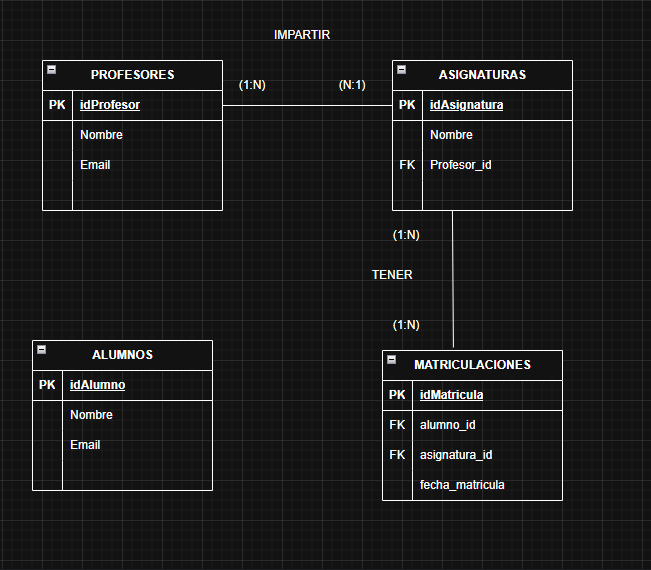
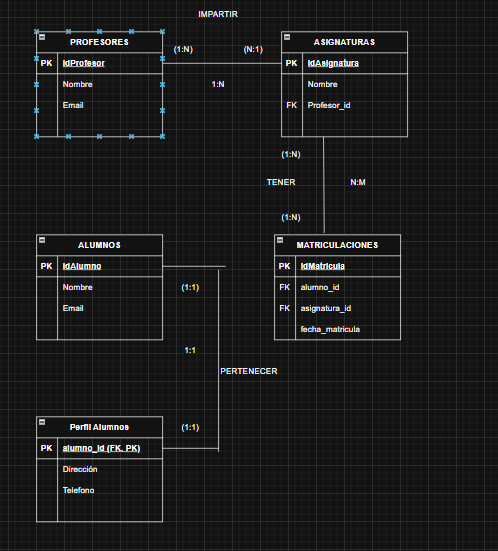
corrigiendo errores

diff --git a/app/Http/Controllers/PerfilAlumnoController.php b/app/Http/Controllers/PerfilAlumnoController.php
@@ -1,0 +1,106 @@
+<?php
+
+namespace App\Http\Controllers;
+
+use App\Models\PerfilAlumno;
+use App\Models\Alumno;
+use Illuminate\Http\Request;
+
+class PerfilAlumnoController extends Controller
+{
+    /**
+     * Mostrar el perfil de un alumno específico.
+     */
+    public function show($id)
+    {
+        $perfil = PerfilAlumno::where('alumno_id', $id)->first();
+
+        if (!$perfil) {
+            return response()->json([
+                'message' => 'Perfil no encontrado para el alumno especificado.'
+            ], 404);
+        }
+
+        return response()->json($perfil, 200);
+    }
+
+    /**
+     * Crear un nuevo perfil para un alumno.
+     */
+    public function store(Request $request, $id)
+    {
+        // Verificar que el alumno existe
+        $alumno = Alumno::find($id);
+        if (!$alumno) {
+            return response()->json([
+                'message' => 'Alumno no encontrado.'
+            ], 404);
+        }
+
+        // Validar los datos de entrada
+        $validated = $request->validate([
+            'direccion' => 'required|string|max:255',
+            'telefono' => 'required|string|max:15',
+        ]);
+
+        // Crear el perfil
+        $perfil = PerfilAlumno::create([
+            'alumno_id' => $id,
+            'direccion' => $validated['direccion'],
+            'telefono' => $validated['telefono'],
+        ]);
+
+        return response()->json([
+            'message' => 'Perfil creado con éxito.',
+            'perfil' => $perfil,
+        ], 201);
+    }
+
+    /**
+     * Actualizar el perfil de un alumno.
+     */
+    public function update(Request $request, $id)
+    {
+        $perfil = PerfilAlumno::where('alumno_id', $id)->first();
+
+        if (!$perfil) {
+            return response()->json([
+                'message' => 'Perfil no encontrado.'
+            ], 404);
+        }
+
+        // Validar los datos de entrada
+        $validated = $request->validate([
+            'direccion' => 'nullable|string|max:255',
+            'telefono' => 'nullable|string|max:15',
+        ]);
+
+        // Actualizar el perfil
+        $perfil->update($validated);
+
+        return response()->json([
+            'message' => 'Perfil actualizado con éxito.',
+            'perfil' => $perfil,
+        ], 200);
+    }
+
+    /**
+     * Eliminar el perfil de un alumno.
+     */
+    public function destroy($id)
+    {
+        $perfil = PerfilAlumno::where('alumno_id', $id)->first();
+
+        if (!$perfil) {
+            return response()->json([
+                'message' => 'Perfil no encontrado.'
+            ], 404);
+        }
+
+        $perfil->delete();
+
+        return response()->json([
+            'message' => 'Perfil eliminado con éxito.'
+        ], 200);
+    }
+}

diff --git a/database/migrations/2025_01_24_184147_create_perfil_alumnos_table.php b/database/migrations/2025_01_24_184147_create_perfil_alumnos_table.php
@@ -1,0 +1,38 @@
+<?php
+
+use Illuminate\Database\Migrations\Migration;
+use Illuminate\Database\Schema\Blueprint;
+use Illuminate\Support\Facades\Schema;
+
+return new class extends Migration
+{
+    /**
+     * Run the migrations.
+     */
+    public function up()
+{
+    Schema::create('perfil_alumnos', function (Blueprint $table) {
+        // Caso 1: Usar alumno_id como PK y FK a la vez
+        // El PK es alumno_id (NO auto-increment)
+        $table->unsignedBigInteger('alumno_id')->primary();
+        
+        // Definimos la relación con la tabla alumnos
+        $table->foreign('alumno_id')
+              ->references('id')     // si tu PK en alumnos es 'id'
+              ->on('alumnos')       // nombre de la tabla
+              ->onDelete('cascade');
+        
+        // Campos extra de perfil
+        $table->string('direccion')->nullable();
+        $table->string('telefono')->nullable();
+        
+        $table->timestamps();
+    });
+}
+
+public function down()
+{
+    Schema::dropIfExists('perfil_alumnos');
+}
+
+};

diff --git a/routes/api.php b/routes/api.php
@@ -13,8 +13,8 @@ use App\Http\Controllers\AsignaturaController;
 | API Routes
 |--------------------------------------------------------------------------
 |
-| Aquí registras las rutas para tu API. Estas rutas se cargarán dentro
-| del "api" middleware group. Puedes probar cada ruta con Postman.
+|
+| 
 |
 */
 
@@ -39,4 +39,8 @@ Route::post('/asignaturas', [AsignaturaController::class, 'store']);
 Route::put('/asignaturas/{id}', [AsignaturaController::class, 'update']);
 Route::delete('/asignaturas/{id}', [AsignaturaController::class, 'destroy']);
 
-
+//Rutas para cada perfil de alumno
+Route::get('/alumnos/{id}/perfil', [PerfilAlumnoController::class, 'show']);
+Route::post('/alumnos/{id}/perfil', [PerfilAlumnoController::class, 'store']);
+Route::put('/alumnos/{id}/perfil', [PerfilAlumnoController::class, 'update']);
+Route::delete('/alumnos/{id}/perfil', [PerfilAlumnoController::class, 'destroy']);

diff --git a/database/seeders/PerfilAlumnoSeeder.php b/database/seeders/PerfilAlumnoSeeder.php
@@ -1,0 +1,28 @@
+<?php
+
+namespace Database\Seeders;
+
+use Illuminate\Database\Seeder;
+use App\Models\PerfilAlumno;
+
+class PerfilAlumnoSeeder extends Seeder
+{
+    /**
+     * Run the database seeds.
+     */
+    public function run(): void
+    {
+        // Ejemplo de datos de prueba
+        PerfilAlumno::create([
+            'alumno_id' => 1, // Asegúrate de que este ID ya exista en la tabla "alumnos"
+            'direccion' => 'Calle Falsa 123',
+            'telefono' => '123456789',
+        ]);
+
+        PerfilAlumno::create([
+            'alumno_id' => 2, // Asegúrate de que este ID ya exista en la tabla "alumnos"
+            'direccion' => 'Avenida Principal 456',
+            'telefono' => '987654321',
+        ]);
+    }
+}

diff --git a/app/Models/PerfilAlumno.php b/app/Models/PerfilAlumno.php
@@ -1,0 +1,28 @@
+<?php
+
+namespace App\Models;
+
+use Illuminate\Database\Eloquent\Factories\HasFactory;
+use Illuminate\Database\Eloquent\Model;
+
+class PerfilAlumno extends Model
+{
+    use HasFactory;
+
+    protected $table = 'perfil_alumnos';
+    public $incrementing = false; // si usas la PK compartida
+
+    protected $primaryKey = 'alumno_id'; // si usas la PK alumno_id
+
+    protected $fillable = [
+        'alumno_id', 
+        'direccion', 
+        'telefono'
+    ];
+
+    // Relación inversa 1..1 con Alumno
+    public function alumno()
+    {
+        return $this->belongsTo(Alumno::class, 'alumno_id');
+    }
+}

diff --git a/app/Models/Profesor.php b/app/Models/Profesor.php
@@ -9,7 +9,7 @@ class Profesor extends Model
 {
     use HasFactory;
 
-    protected $table = 'profesores';  // opcional si el nombre coincide
+    protected $table = 'profesores';  
     protected $fillable = ['nombre', 'email'];
 
     // Relación 1:N con Asignaturas

diff --git a/app/Models/Alumno.php b/app/Models/Alumno.php
@@ -19,5 +19,11 @@ class Alumno extends Model
                     ->withPivot('fecha_matricula')
                     ->withTimestamps();
     }
+
+    public function perfil()
+{
+    return $this->hasOne(PerfilAlumno::class, 'alumno_id');
+}
+
 }
 

diff --git a/database/seeders/DatabaseSeeder.php b/database/seeders/DatabaseSeeder.php
@@ -30,6 +30,7 @@ class DatabaseSeeder extends Seeder
             AlumnosSeeder::class,
             AsignaturasSeeder::class,
             MatriculacionesSeeder::class,
+            PerfilAlumnoSeeder::class,
         ]);
     }
 }
